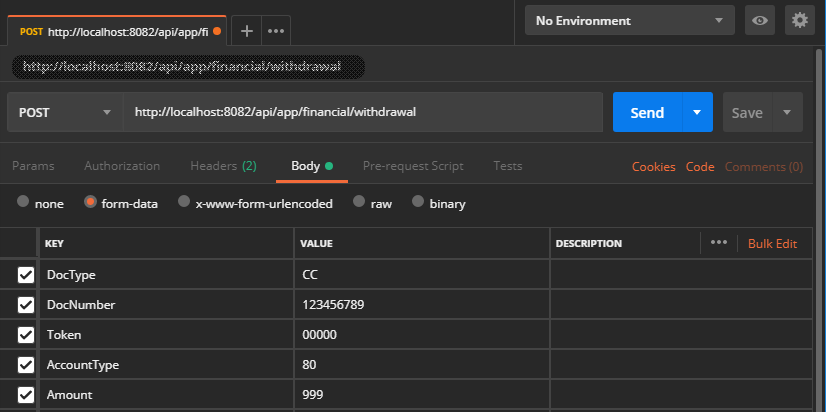
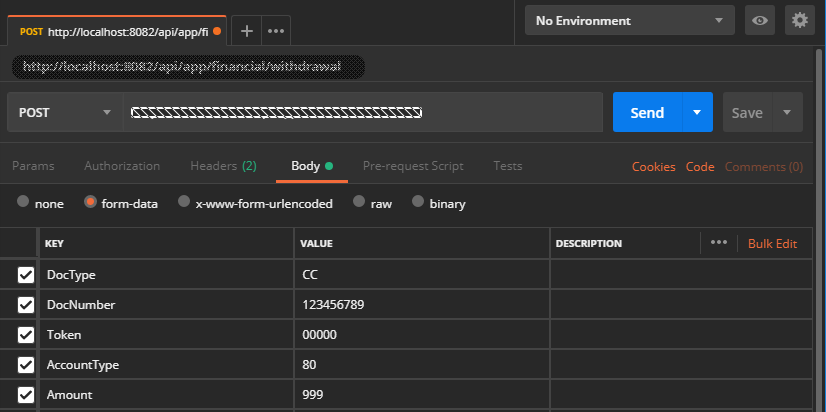
Ajustes pago con token
Ajustes pago con token

Changed region(s): [[0.1513, 0.2621, 0.5145, 0.2913]]

diff --git a/docs/Perform-Payment.md b/docs/Perform-Payment.md
@@ -1,0 +1,101 @@
+# Compra con token
+
+Procesa una solicitud financiera de compra, utilizando un token transaccional como método de validación.
+
+| Verbo | Endpoint                                      | Requiere autenticación |
+| :---: | --------------------------------------------- | :--------------------: |
+| POST  | http://localhost/api/app/financial/payment |          [ Si ]           |
+
+[^Segmentos de URL]: La información entre corchetes en la URL se denomina segmentos de URL y aplican solo para algunas operaciones. Cuando aparezcan en un ejemplo, deben ser reemplazados por sus valores correspondientes omitiendo los corchetes. Por ejemplo, sin en la URL de ejemplo apareciera http://localhost/api/operation/value/{value}, para establecer el valor de  `value` en la solicitud a la cadena `abc`, la URL final se vería de la siguiente forma: http://localhost/api/operation/value/abc 
+
+## Datos de la solicitud (body)
+
+```json
+{
+  "DocType": "CC",
+  "DocNumber": "123456789",
+  "Token": "000000",
+  "AccountType": "80",
+  "Amount": 99999,
+  "Metadata" : "RANDOM_DATA_BY_ACQUIRER"
+}
+```
+
+### Valores de la solicitud
+
+Campo | Tipo de dato | Descripción | Requerido
+:---: | :--------: | ------------ | :-----:
+DocType | string | [Tipo de documento](Inquiries-CustomerAccounts.md#DocTypes) del usuario para el que se generó el token transaccional. | [ Si ]
+DocNumber | string | Número de documento del usuario para el que se generó el token transaccional. | [ Si ]
+Token | string | Valor del token transaccional generado para el usuario. Generalmente le será entregado en un mensaje SMS. | [ Si ]
+AccountType | string | Identificador del tipo de cuenta de donde se toman los fondos para la transacción. Generalmente este valor lo debe "*ingresar/seleccionar/establecer*" el usuario y/o comercio en el punto de pago. Corresponde con una lista de valores predefinidos por Processa. | [ Si ]
+Amount | int | Valor de la transacción (retiro). Cantidad de dinero que se desea autorizar. | [ Si ]
+Metadata | string | Metadatos asociados personalizados para el [TPS](Tokenization/#tps). | [Opcional] 
+Tags | string | Colección de claves y valores con información asociada con la transacción [Tags](#tags). | [Opcional]
+
+### Tags
+Una colección de claves y valores (ambos de tipo string), que representan información relacionada con la transacción. Todos los valores son opcionales, pero si se envian, deben cumplir con los siguientes formatos:
+
+Claves admitidas | Descripción | Formato admitido | Requerido
+:---: | -------- | :---: | :-----:  
+TerminalId | Código que el adquiriente asigna al punto dentro del comercio desde donde se realiza la transacción. | ^\w{1,8}$ | [Opcional]
+CardAcceptorId | Código que el adquiriente asigna al comercio desde donde se realiza la transacción. | ^\w{1,15}$ | [Opcional]
+CustomerGroup | Identificador del grupo familiar al que pertenece el afiliado. | ^\d{1,2}$ | [Opcional]
+Pan | Últimos 4 dígitos del número de tarjeta utilizado para la transacción. | ^\d{4}$ | [Opcional]
+
+#### Ejemplo de Tags
+
+```json
+{
+  "TerminalId": "XXXXXXXX",
+  "CardAcceptorId": "XXXXXXXXXXXXXXX",
+  "CustomerGroup": "00",
+  "Pan": "1234"
+}
+```
+
+
+## Datos de la respuesta
+
+> Si al procesar la respuesta del servicio está utilizando un serializador que distinga mayúsculas y minúsculas, tenga en cuenta que Aspen genera todas sus respuestas utilizando el formato conocido como [LowerCamelCase](https://en.wikipedia.org/wiki/Camel_case)
+
+Esta operación no retorna información adicional al código de estado de HTTP de acuerdo con la especificación [RFC 2616](https://www.w3.org/Protocols/rfc2616/rfc2616-sec10.html). Si la respuesta no es `HttpStatus` 200, en el campo  `ReasonPhrase` de la respuesta encontrará un mensaje que describe de forma detallada el resultado de la operación.
+
+### Valores de respuesta más utilizados
+
+HttpStatus | Tipo | Descripción
+:---: | :--------: | ------------
+200 | int | El token de retiro se validó satisfactoriamente y se realizó el descuento de los fondos monetarios en la cuenta del usuario. 
+404 | int | El token de retiro no existe, no es válido, ya expiró o fue generado por un valor diferente. 
+406 | int | El token de retiro se validó satisfactoriamente, pero el autorizador financiero denegó la transacción.  
+
+Cuando el estatus de la operación es 200 (exitoso), el cuerpo de la respuesta incluye el número de autorización generado:
+
+```json
+{
+  "AuthNumber": "999999"
+}
+```
+
+<div class="admonition info">
+   <p class="first admonition-title">Nota</p>
+   <p class="last">Indiferentemente al código de la respuesta, el token transaccional utilizado se invalidará, ya que se trata de un <a href="https://en.wikipedia.org/wiki/One-time_password" target="_blank">OTP</a>.</p>
+</div>
+
+
+
+## Ejemplo en Postman
+
+![POSTMAN](Perform-Payment.png)
+
+## Información relacionada
+
+- [Generar un token de autenticación](Generate-Token.md)
+
+- [Registro de aplicaciones](App_Register.md)
+
+- [Mensajes de respuesta](Responses.md)
+
+- [Tipos de documentos reconocidos](Inquiries-CustomerAccounts.md#DocTypes)
+
+  
